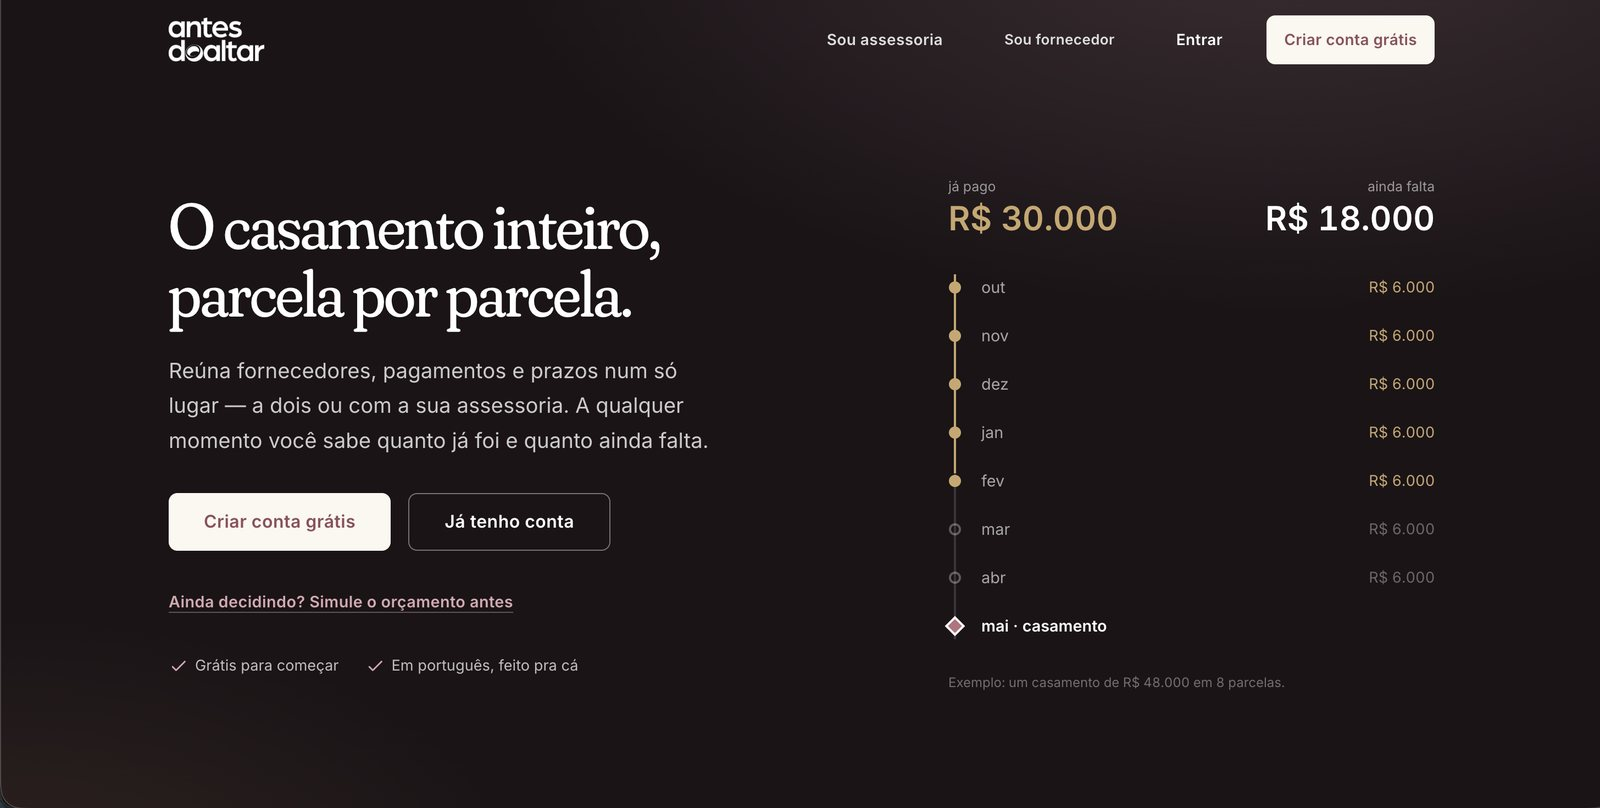
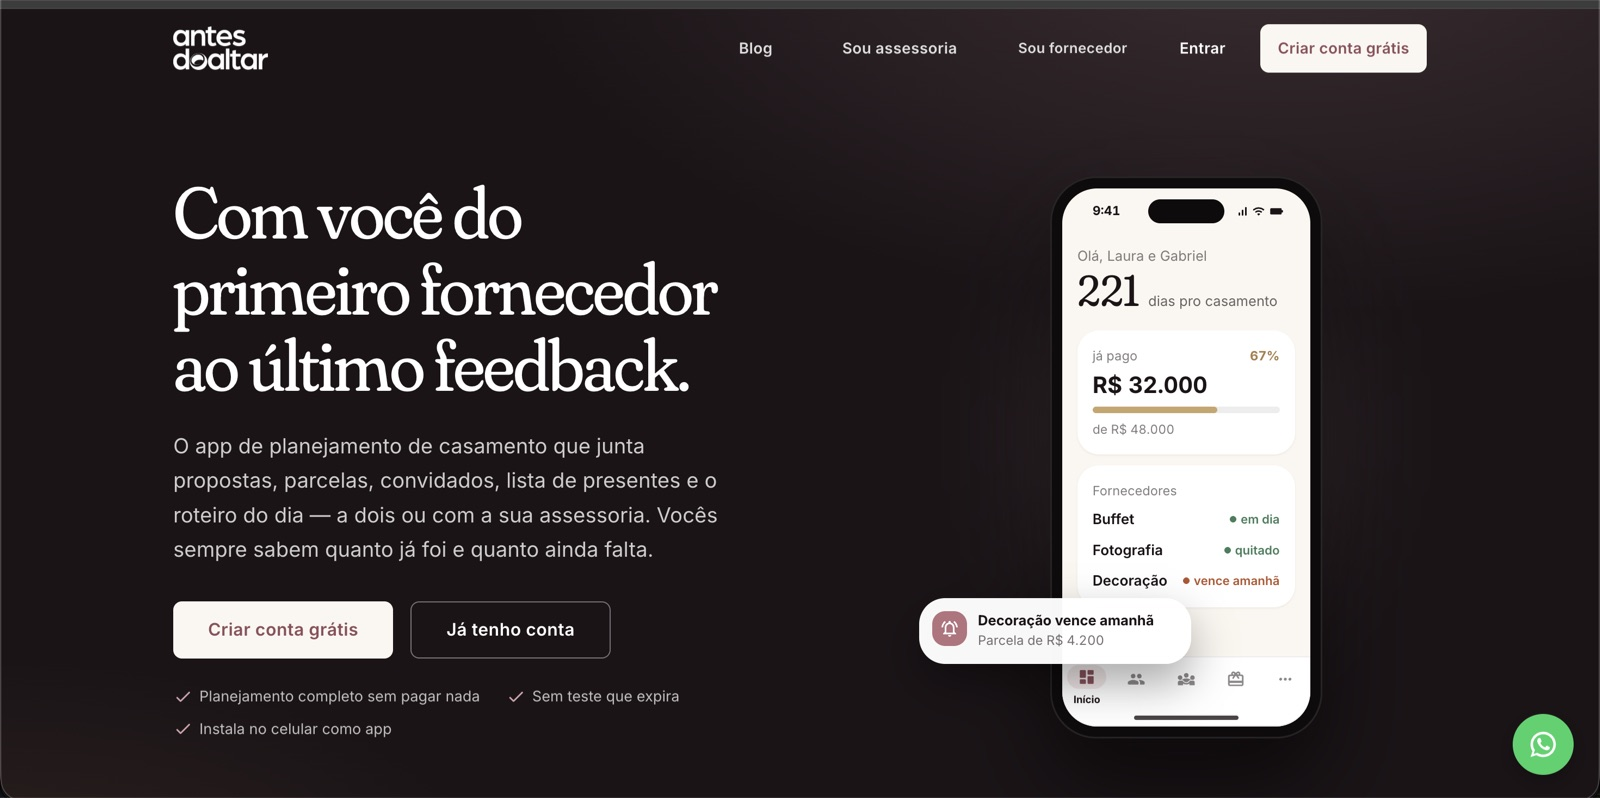
Add Ocarina Games to the portfolio and refresh project screenshots

diff --git a/src/index.html b/src/index.html
@@ -223,6 +223,40 @@
             </div>
           </article>
 
+          <article class="project project--media-right">
+            <div class="project__text">
+              <h3 class="project__title">Ocarina Games</h3>
+              <p
+                data-pt="Rede social para quem joga — avalie o que terminou, organize seus favoritos e descubra o que gente com gosto parecido está jogando, sem paywall no social e sem review patrocinada. Inclui o Mata-mata, em que 16 jogos disputam até sobrar um campeão."
+                data-en="A social network for people who play — rate what you finished, organise your favourites and discover what people with similar taste are playing, with no paywall on the social side and no sponsored reviews. Includes Mata-mata, where 16 games face off until one champion is left."
+              >
+                Rede social para quem joga — avalie o que terminou, organize seus
+                favoritos e descubra o que gente com gosto parecido está jogando,
+                sem paywall no social e sem review patrocinada. Inclui o
+                Mata-mata, em que 16 jogos disputam até sobrar um campeão.
+              </p>
+              <p class="project__links link-row">
+                <a
+                  class="link-cta"
+                  href="https://ocarinagames.com.br"
+                  target="_blank"
+                  rel="noreferrer"
+                  data-pt="Ver o site"
+                  data-en="Visit the site"
+                  >Ver o site</a
+                >
+              </p>
+            </div>
+            <div class="project__frame">
+              <img
+                class="project__img"
+                src="assets/ocarina-games.jpg"
+                alt="Ocarina Games"
+                loading="lazy"
+              />
+            </div>
+          </article>
+
           <article class="project">
             <div class="project__text">
               <h3 class="project__title">Observador Tático</h3>
